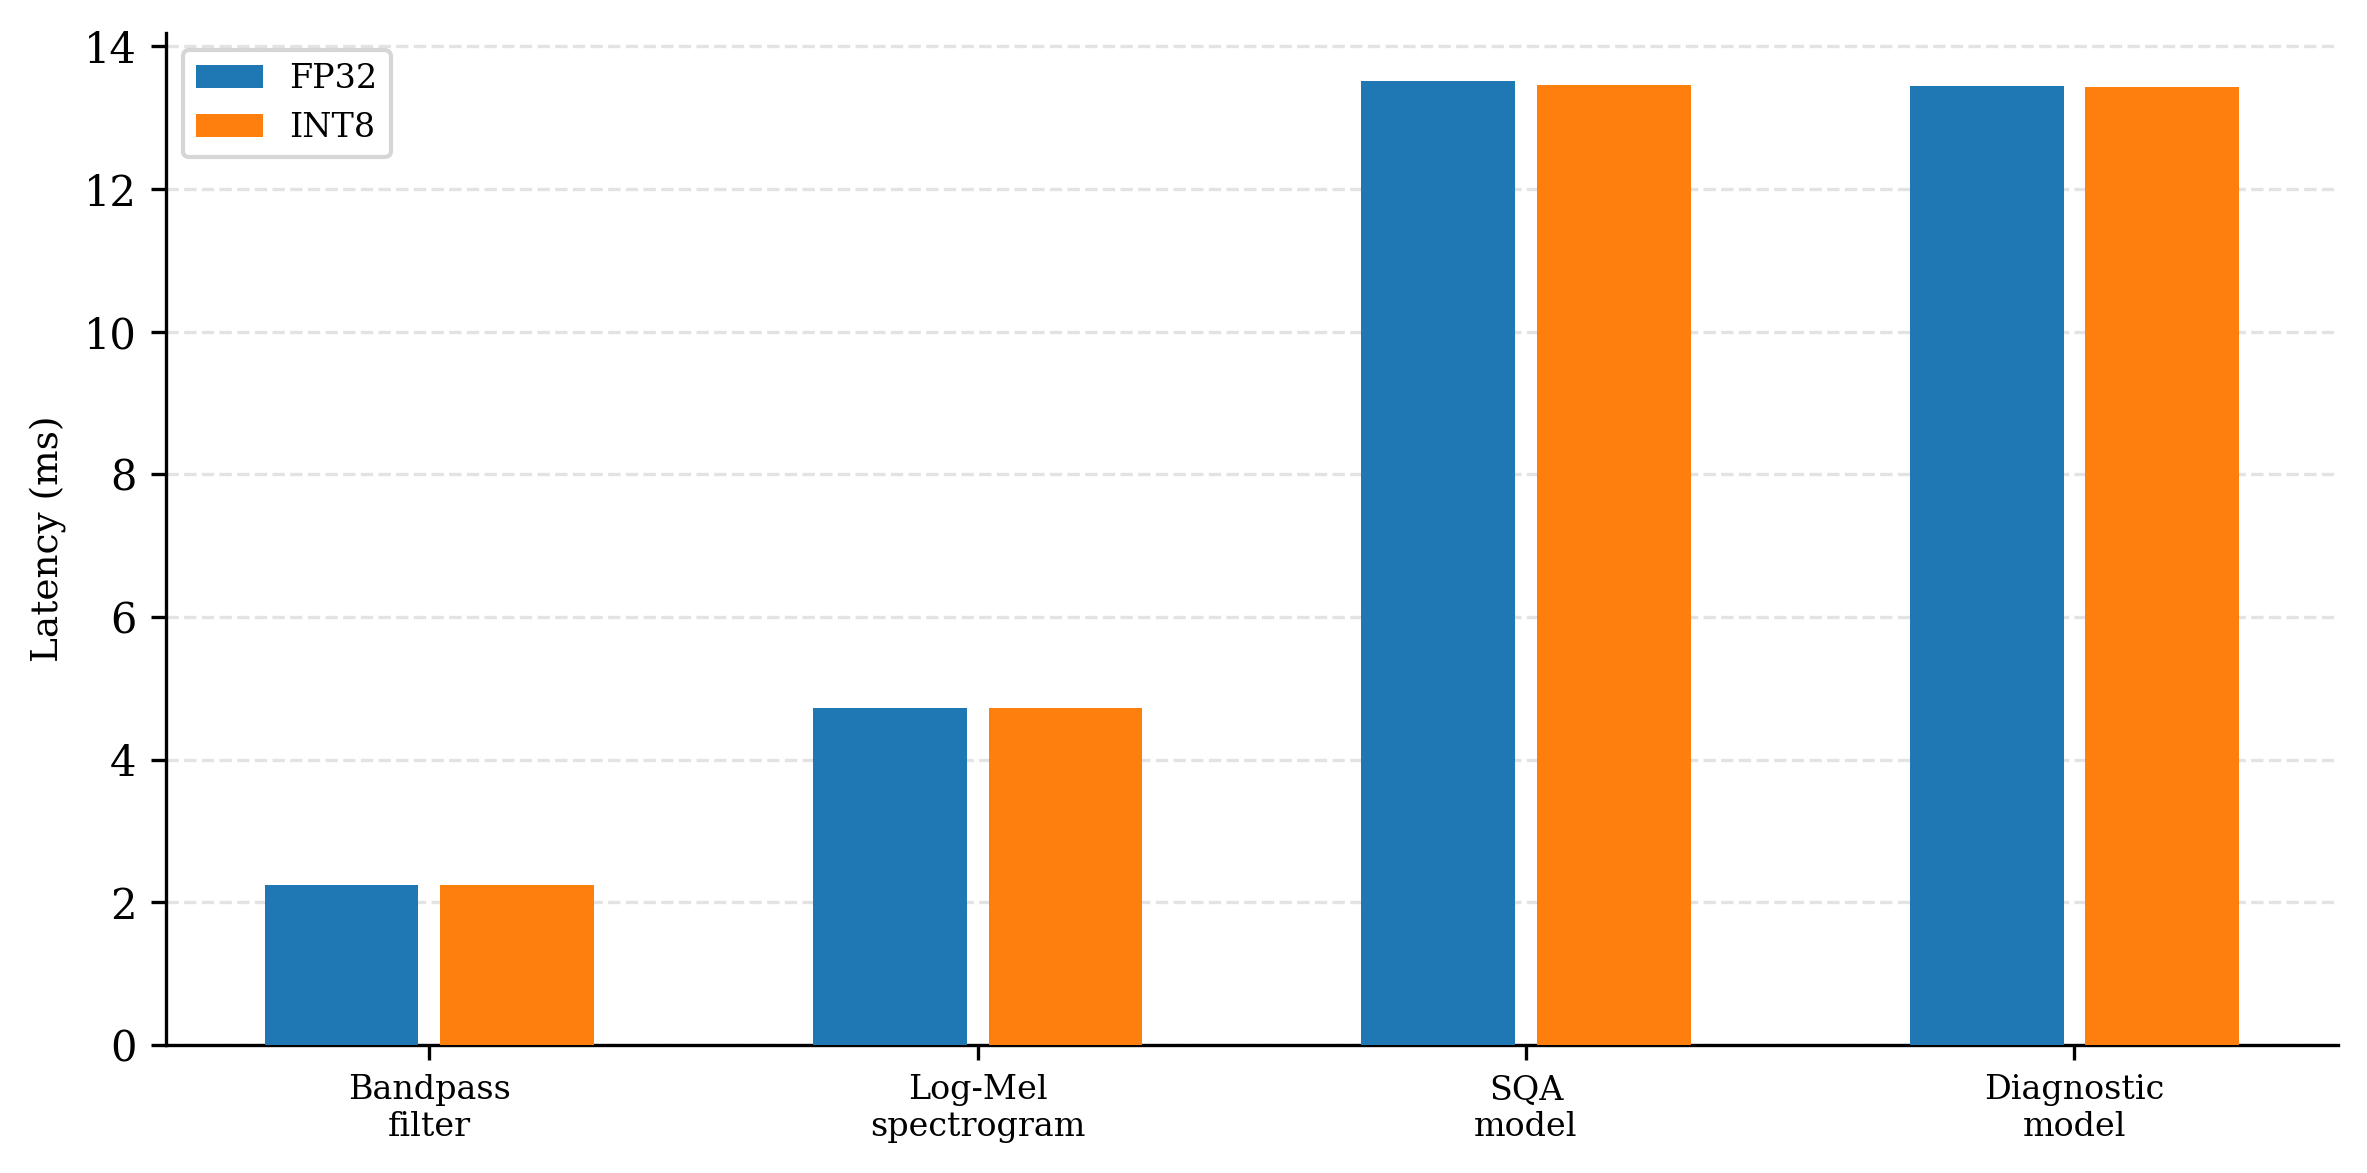
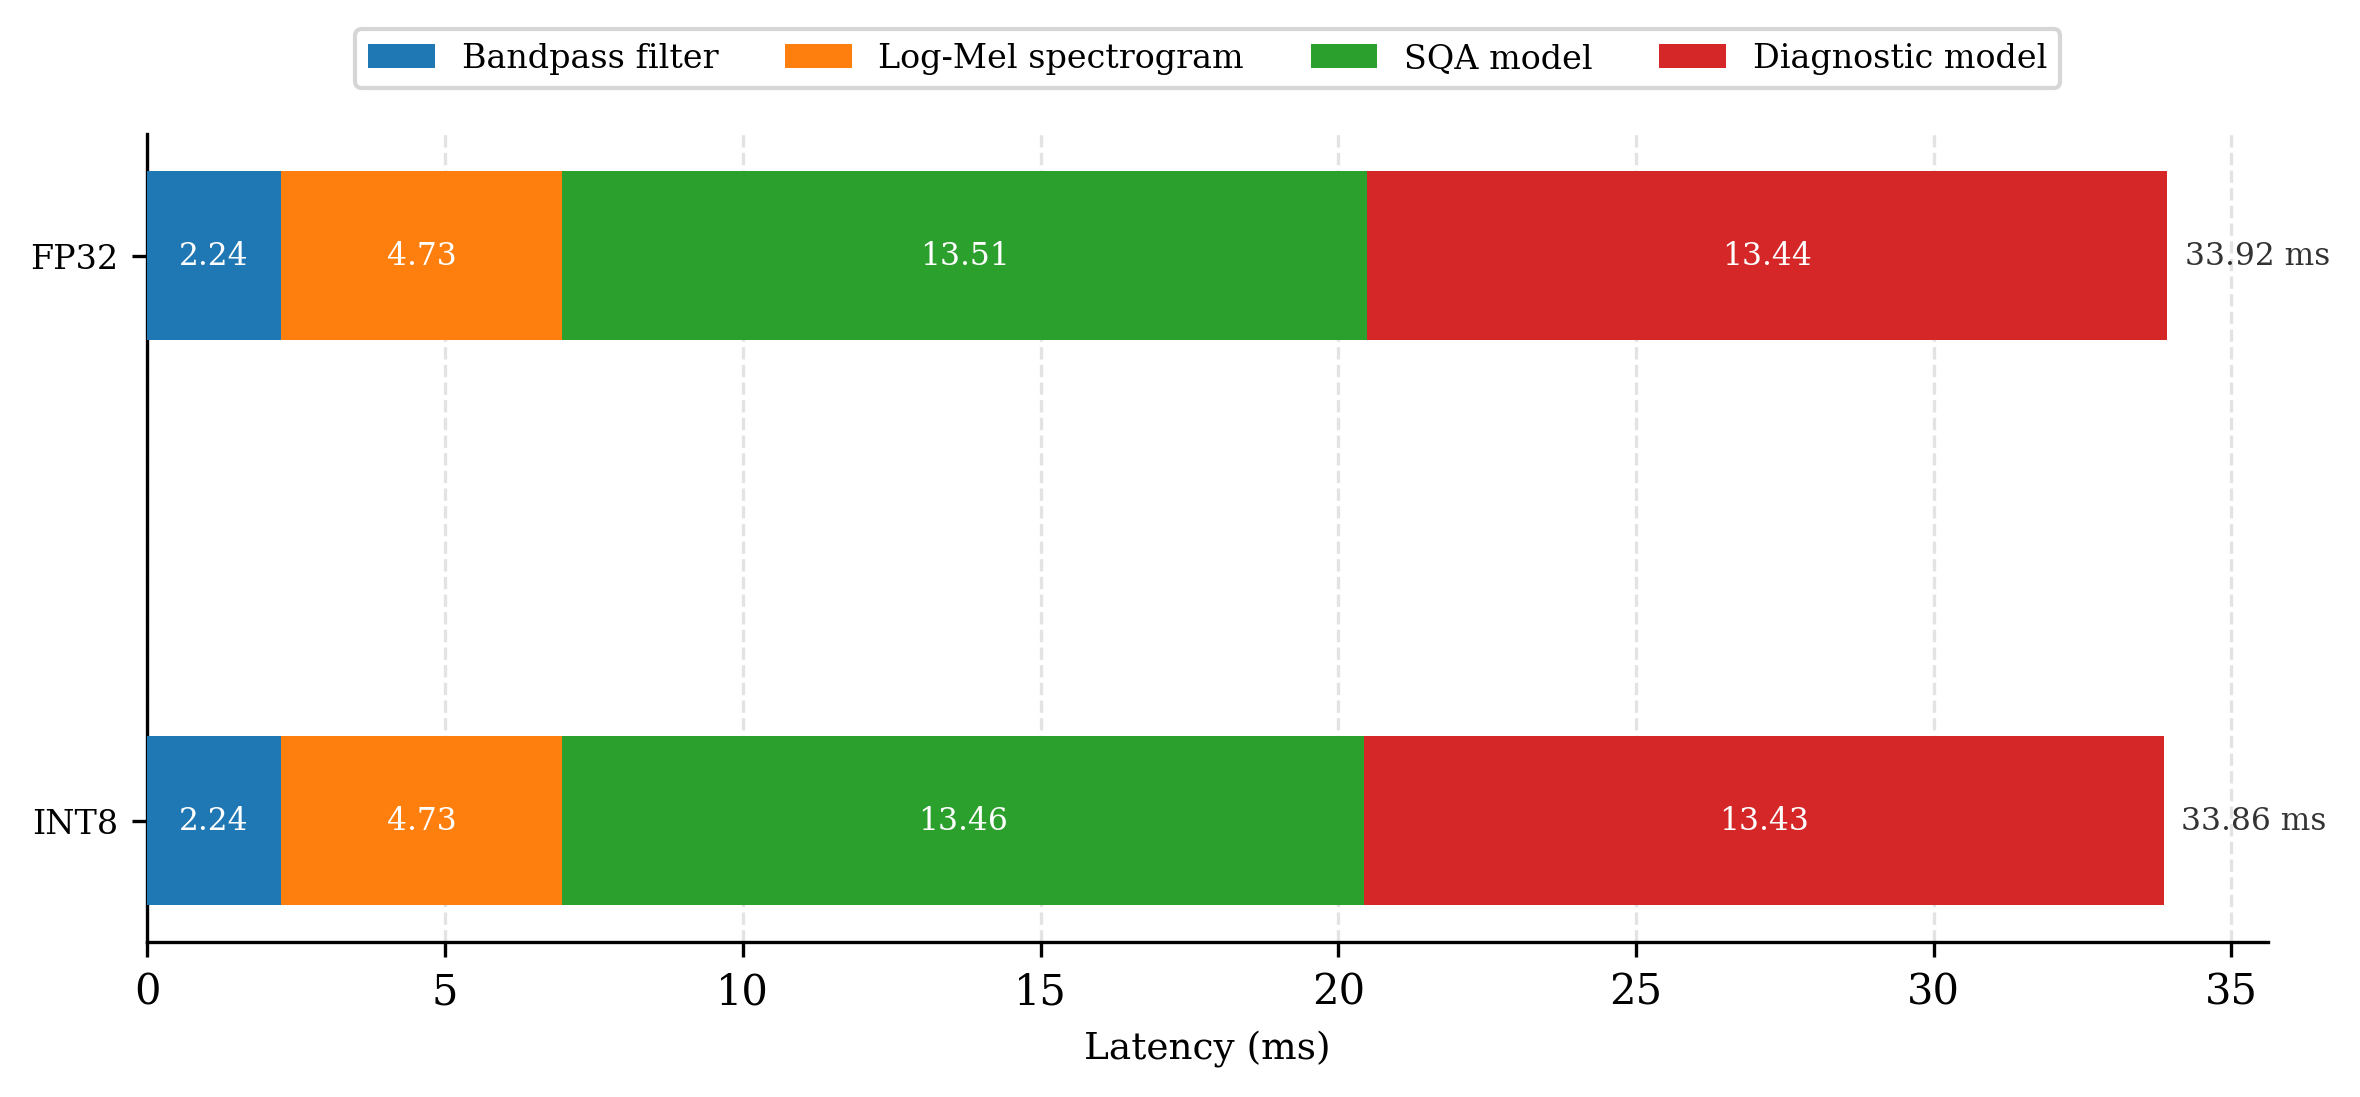
图片修改,替换表格

diff --git a/plot_draw/SQA_Diag_Delay.py b/plot_draw/SQA_Diag_Delay.py
@@ -3,21 +3,40 @@ import numpy as np
 
 plt.rcParams['font.family'] = 'serif'
 
-stages = ['Bandpass\nfilter', 'Log-Mel\nspectrogram', 'SQA\nmodel', 'Diagnostic\nmodel']
+stages = ['Bandpass filter', 'Log-Mel spectrogram', 'SQA model', 'Diagnostic model']
 fp32 = [2.24, 4.73, 13.51, 13.44]
-int8 = [2.24, 4.73, 13.46, 13.43]  # bandpass/mel 不走 TFLite，与 FP32 值相同；caption 需说明
+int8 = [2.24, 4.73, 13.46, 13.43]
 
-x = np.arange(len(stages))
-w = 0.28
-gap = 0.04
-fig, ax = plt.subplots(figsize=(8, 4))
-ax.bar(x - w/2 - gap/2, fp32, w, label='FP32', zorder=3)
-ax.bar(x + w/2 + gap/2, int8, w, label='INT8', zorder=3)
-ax.set_xticks(x)
-ax.set_xticklabels(stages, fontsize=8)
-ax.set_ylabel('Latency (ms)', fontsize=9)
-ax.legend(fontsize=8)
-ax.grid(axis='y', alpha=0.35, linestyle='--')
+colors = ['#1f77b4', '#ff7f0e', '#2ca02c', '#d62728']
+
+y = np.arange(2)
+h = 0.3
+fig, ax = plt.subplots(figsize=(8, 3.8))
+
+left_fp32 = 0
+left_int8 = 0
+for i, stage in enumerate(stages):
+    ax.barh(1, fp32[i], h, left=left_fp32, color=colors[i],
+            label=stage, zorder=3)
+    ax.barh(0, int8[i], h, left=left_int8, color=colors[i],
+            zorder=3)
+    if fp32[i] > 1:
+        ax.text(left_fp32 + fp32[i]/2, 1, f'{fp32[i]:.2f}',
+                ha='center', va='center', fontsize=7.5, color='white')
+    if int8[i] > 1:
+        ax.text(left_int8 + int8[i]/2, 0, f'{int8[i]:.2f}',
+                ha='center', va='center', fontsize=7.5, color='white')
+    left_fp32 += fp32[i]
+    left_int8 += int8[i]
+
+ax.text(left_fp32 + 0.3, 1, f'{sum(fp32):.2f} ms', va='center', fontsize=7.5, color='#333333')
+ax.text(left_int8 + 0.3, 0, f'{sum(int8):.2f} ms', va='center', fontsize=7.5, color='#333333')
+
+ax.set_yticks(y)
+ax.set_yticklabels(['INT8', 'FP32'], fontsize=8)
+ax.set_xlabel('Latency (ms)', fontsize=9)
+ax.legend(fontsize=8, ncol=4, loc='upper center', bbox_to_anchor=(0.5, 1.15))
+ax.grid(axis='x', alpha=0.35, linestyle='--')
 ax.spines[['top', 'right']].set_visible(False)
 
 plt.tight_layout()

diff --git a/plot_draw/train_curve.py b/plot_draw/train_curve.py
@@ -2,7 +2,7 @@ import wandb
 import matplotlib.pyplot as plt
 
 api = wandb.Api()
-run = api.run("xrjgoole-google/heart-sound-fyp/runs/4wt2qyzs")
+run = api.run("xrjgoole-google/heart-sound-fyp/ogymmyh3")
 
 df = run.history(keys=["epoch", "train/loss", "val/m_score"], pandas=True)
 df = df.dropna(subset=["train/loss", "val/m_score"]).sort_values("_step")
@@ -37,5 +37,5 @@ lines2, labels2 = ax2.get_legend_handles_labels()
 ax1.legend(lines1 + lines2, labels1 + labels2, loc='center right')
 ax1.grid(alpha=0.3)
 plt.tight_layout()
-plt.savefig('fig5_1_training_curve.png', dpi=300, bbox_inches='tight')
-print("fig5_1_training_curve.pdf 已保存")
+plt.savefig('fig5_7_Run3_training_curve.png', dpi=300, bbox_inches='tight')
+print("fig5_7_Run3_training_curve.pdf 已保存")
